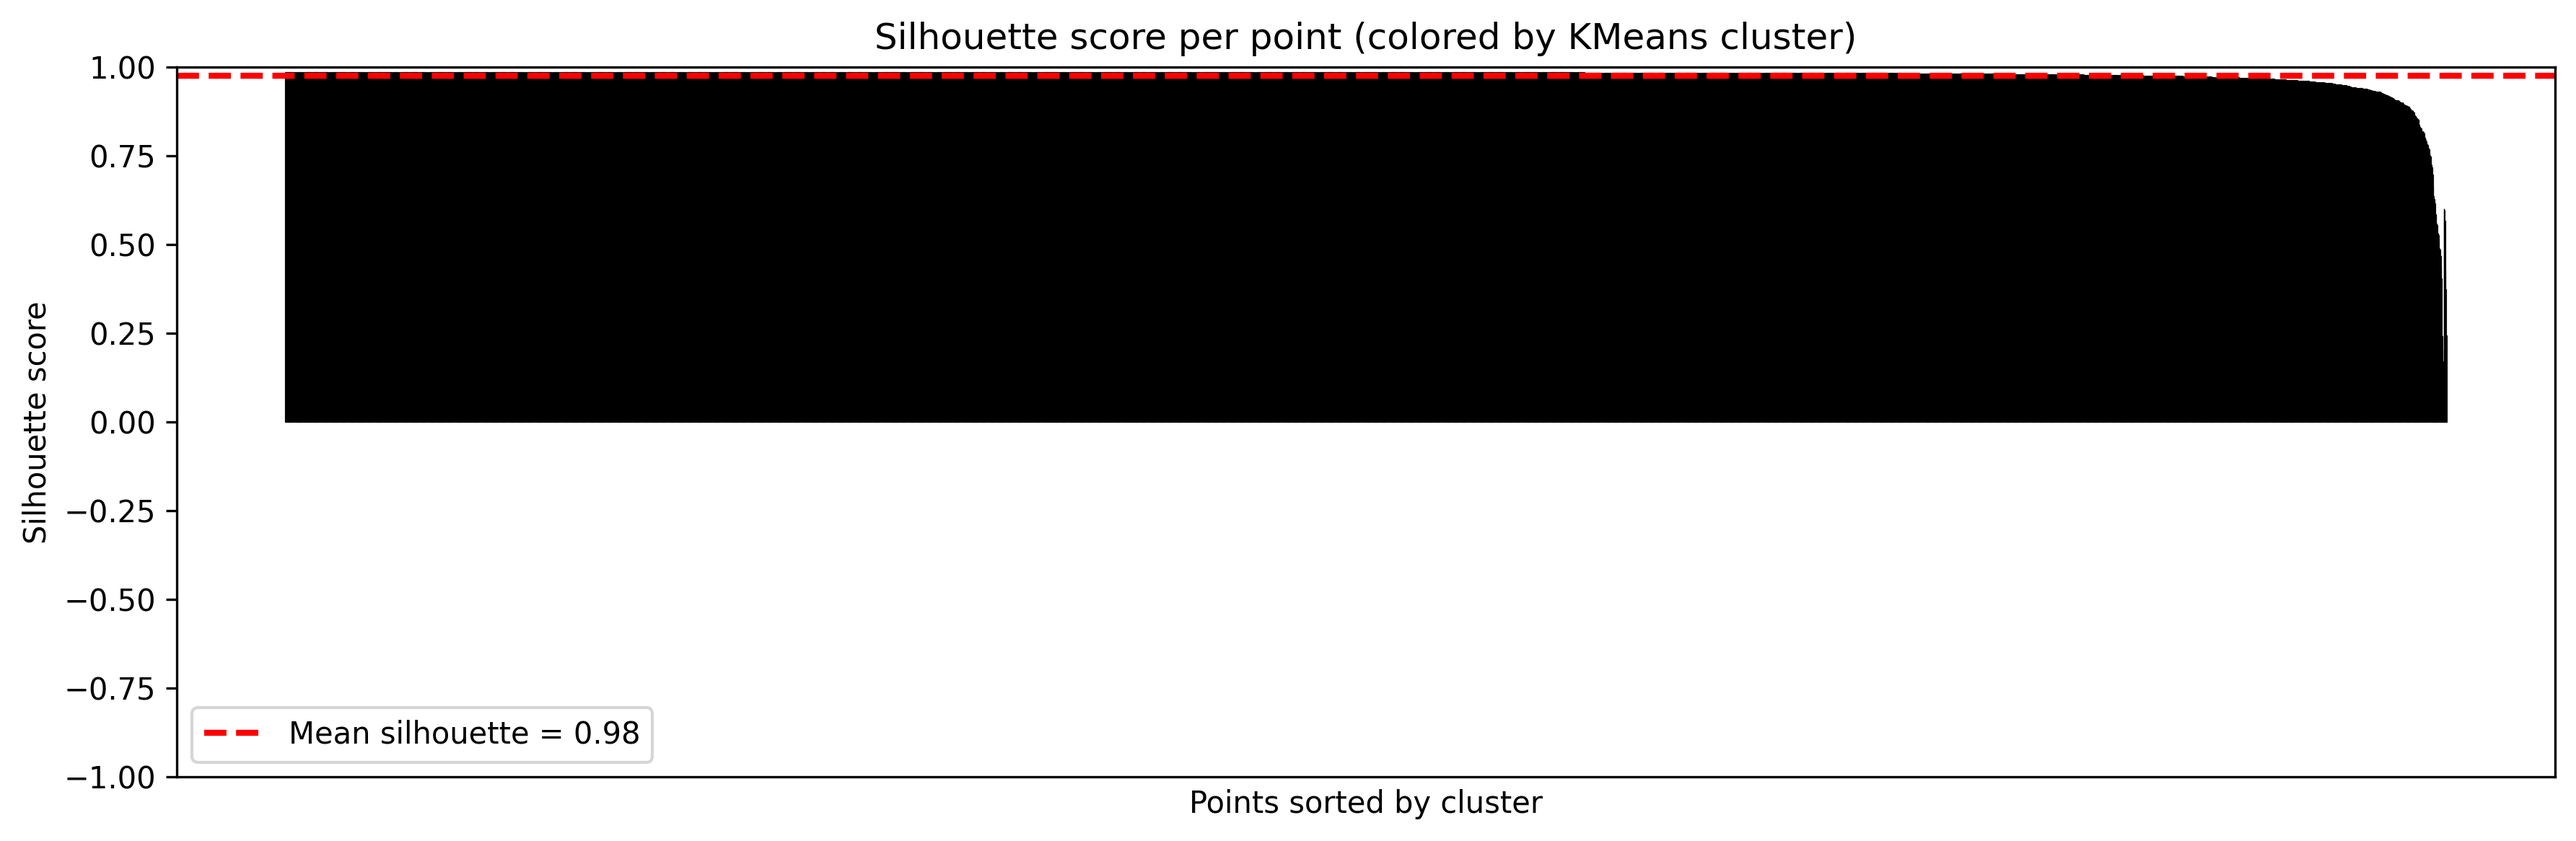
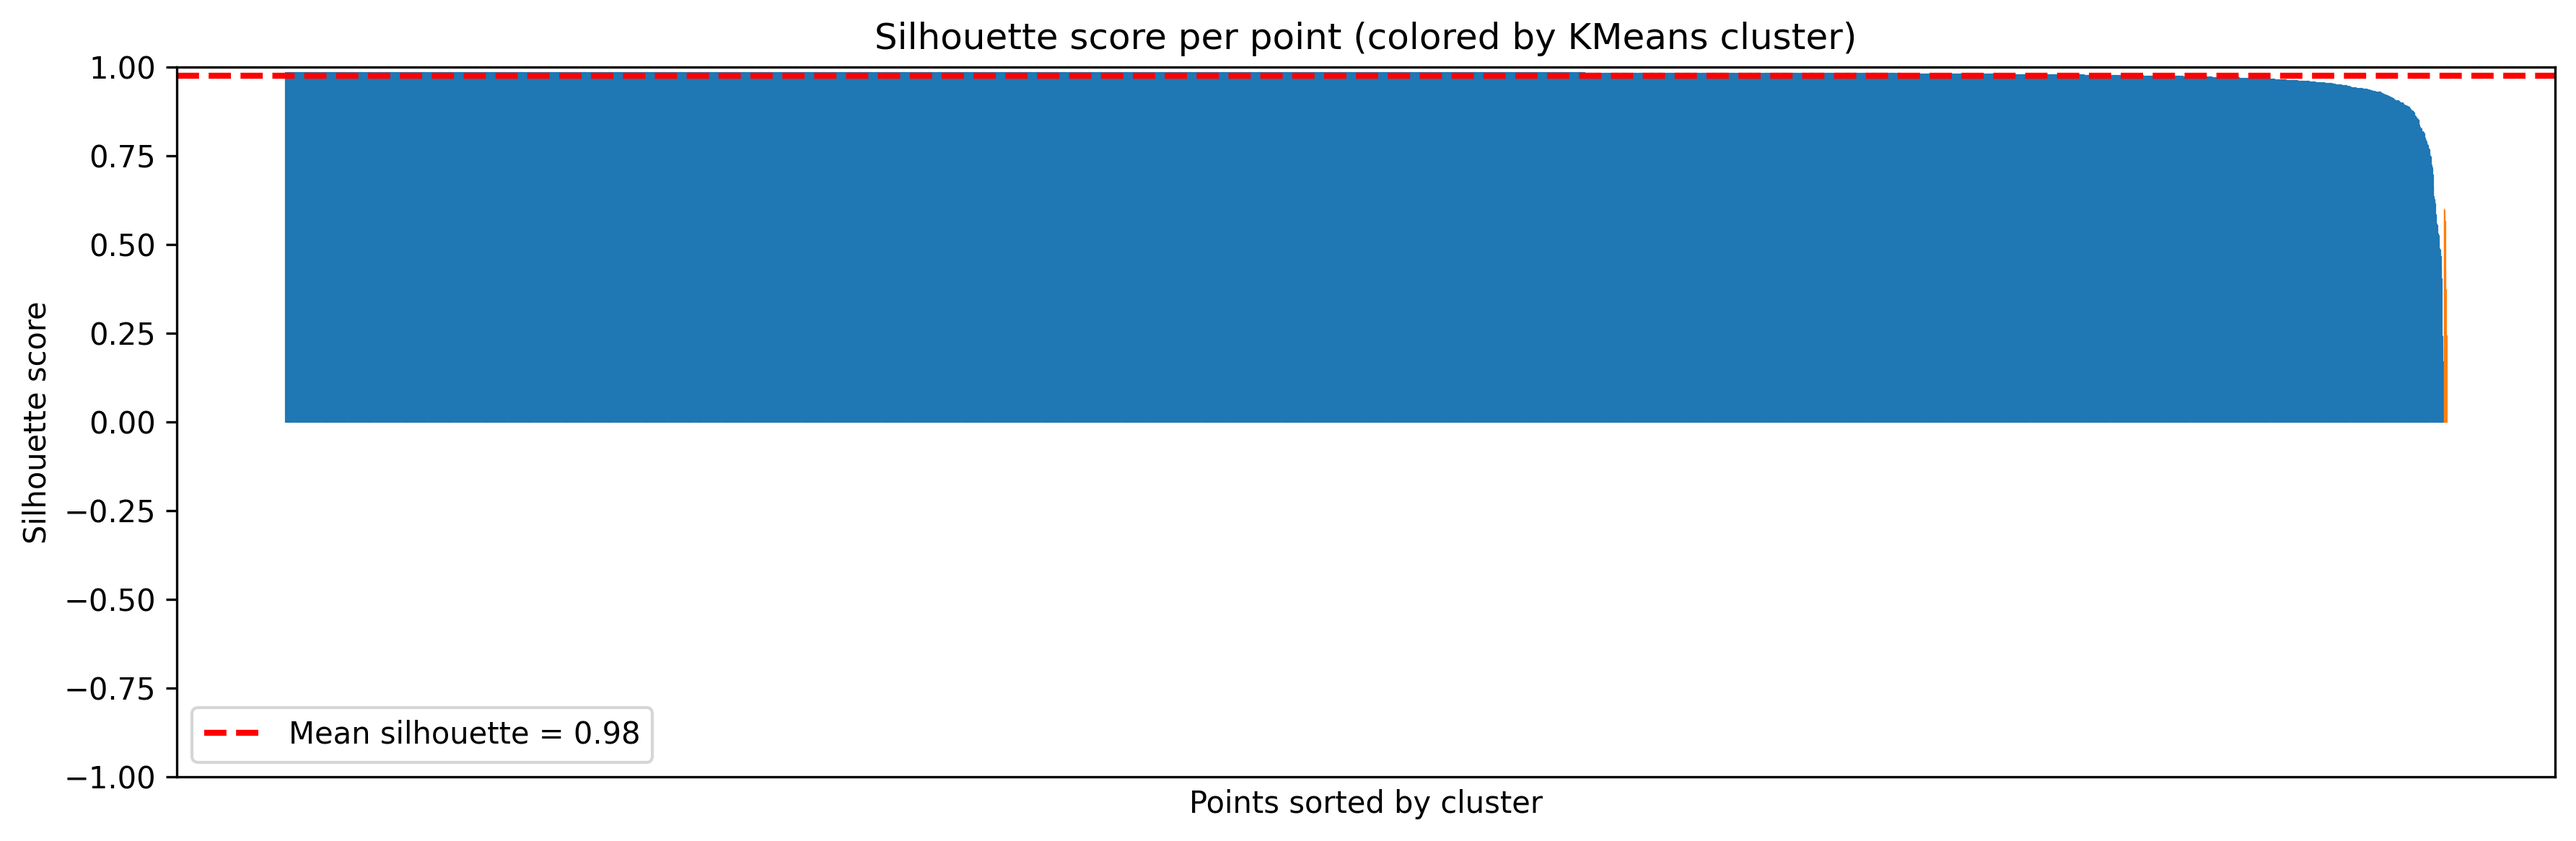
fix(graph): minor graphical fix in silhouette_points graph

diff --git a/main.py b/main.py
@@ -35,14 +35,17 @@ df.dropna(subset=['CustomerID'], inplace=True)
 
 df['InvoiceValue'] = df['Quantity'] * df['UnitPrice']
 
-df_spesa = df.groupby('CustomerID',as_index=False)['InvoiceValue'].sum()
-
 df = df.groupby('CustomerID').agg(
     CustomerLifetimeValue=('InvoiceValue', 'sum'),
     TotalItems=('Quantity', 'sum'), 
     AvgSpesa = ('InvoiceValue', 'mean'),
     # Frequency=('InvoiceDate', lambda x: (x.max()-x.min()).days / x.nunique() if x.nunique()>1 else 1)  # Frequenza acquisti
 ).reset_index()
+
+
+df_sorted = df.sort_values("CustomerLifetimeValue")
+print(df_sorted[['CustomerID', 'CustomerLifetimeValue', 'AvgSpesa']].head(30))
+print(df_sorted[['CustomerID', 'CustomerLifetimeValue', 'AvgSpesa']].tail(30))
 
 print(df.head())
 
@@ -163,7 +166,7 @@ plt.figure(figsize=(12, 4))
 cmap = cm.get_cmap("tab10", len(np.unique(labels)))
 
 plt.bar(range(len(sorted_scores)), sorted_scores,
-        color=bar_colors, edgecolor="black", linewidth=0.3)
+        color=bar_colors, edgecolor=bar_colors, linewidth=0.3)
 plt.axhline(sil_avg, color="red", linestyle="--", linewidth=2,
             label=f"Mean silhouette = {sil_avg:.2f}")
 plt.title("Silhouette score per point (colored by KMeans cluster)")
